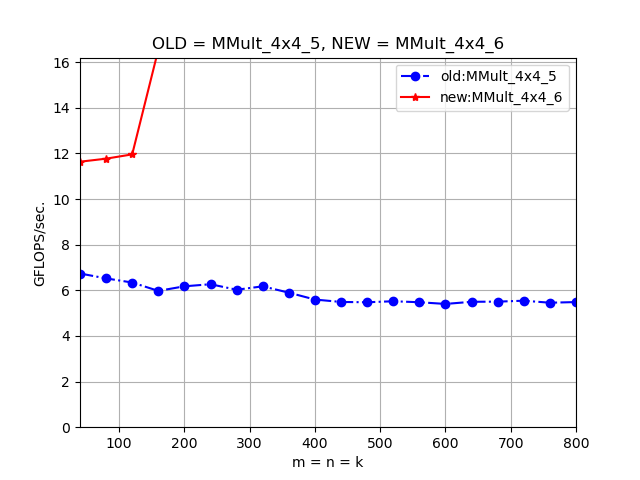
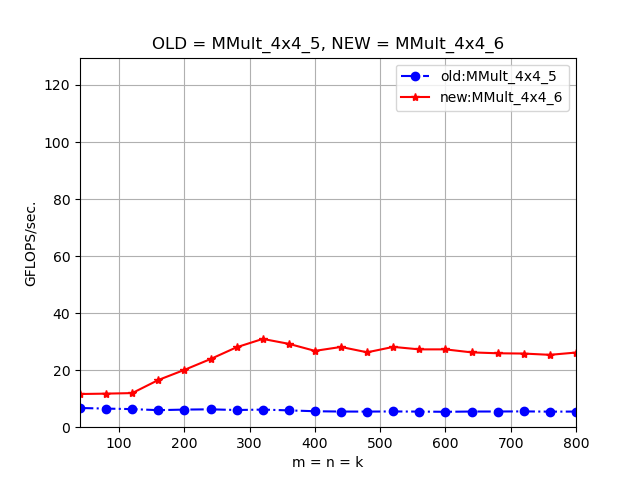
Updated theoretical maximum for M3

diff --git a/src/HowToOptimizeGemm/PlotAll.py b/src/HowToOptimizeGemm/PlotAll.py
@@ -4,7 +4,7 @@ import pathlib
 
 # Indicate the number of floating point operations that can be executed
 # per clock cycle
-nflops_per_cycle = 4
+nflops_per_cycle = 32
 
 # Indicate the number of processors being used (in case you are using a
 # multicore or SMP)
